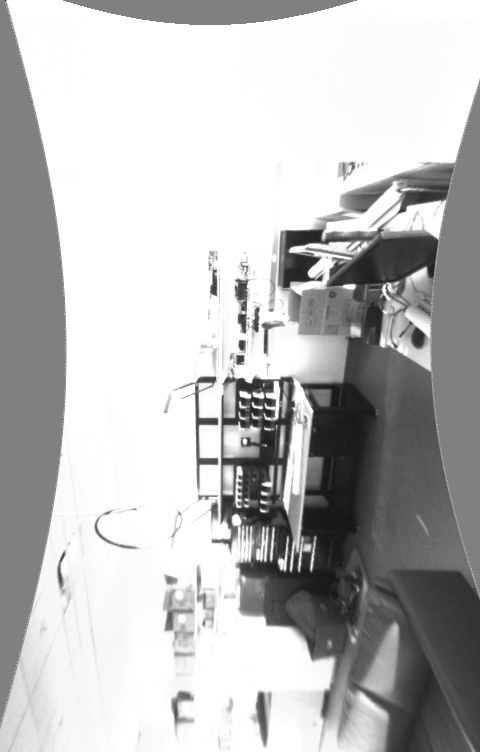
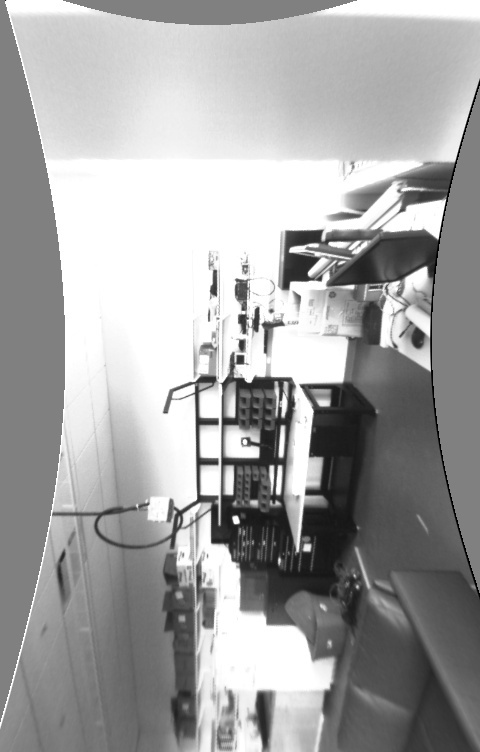
testing with prev imgs

diff --git a/indigosdk-2.0.15/src/omnis5u3mt9v022.cc b/indigosdk-2.0.15/src/omnis5u3mt9v022.cc
@@ -464,8 +464,8 @@ static DeferredImage computeDisparityImage2(std::shared_ptr<void> stereo_handle,
         Mat left_for_matcher, right_for_matcher;
          // left_for_matcher  = left.clone();
         // right_for_matcher = right.clone();
-        left_for_matcher = imread("img/mono/left_for_matcher"+std::to_string(index)+".jpg", IMREAD_UNCHANGED);
-        right_for_matcher = imread("img/mono/right_for_matcher"+std::to_string(index)+".jpg", IMREAD_UNCHANGED);
+        left_for_matcher = imread("img 2016-09-28 20:02/mono/left_for_matcher"+std::to_string(index)+".jpg", IMREAD_UNCHANGED);
+        right_for_matcher = imread("img 2016-09-28 20:02/mono/right_for_matcher"+std::to_string(index)+".jpg", IMREAD_UNCHANGED);
 
         Mat left_disp,right_disp;
         Mat filtered_disp;
